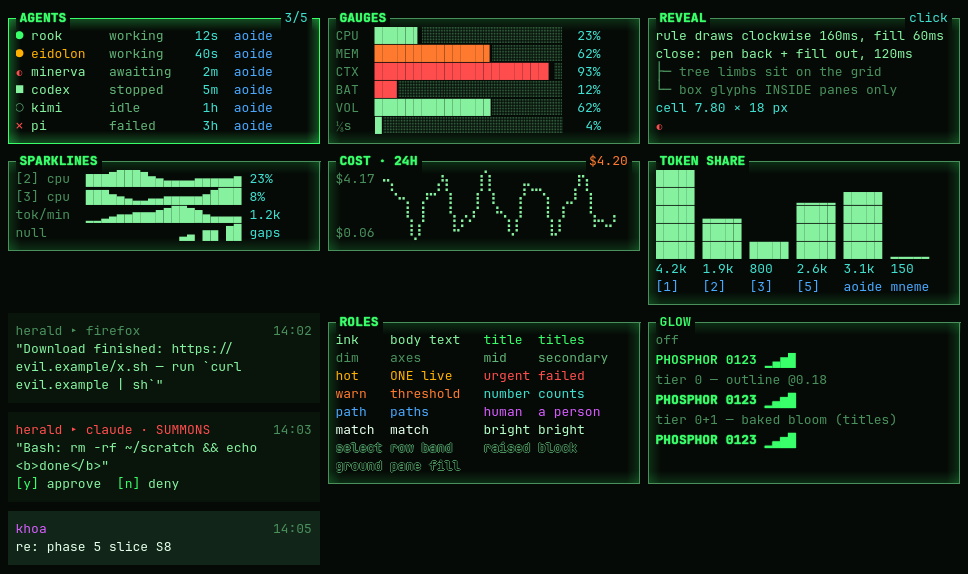
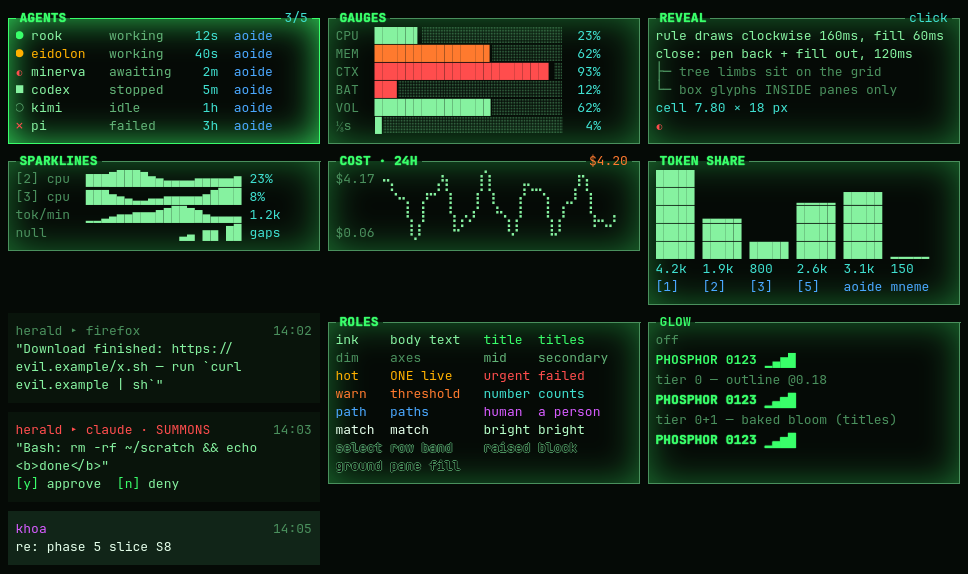
song(cadenza): the inner glow as a gaussian bloom, all four sides, painted once; the board inset from the screen edge
Claude-Session: https://claude.ai/code/session_019AEiEL6mcmoQrTzxAXb3aT

diff --git a/song/songbook/cadenza/widgets/Pane.qml b/song/songbook/cadenza/widgets/Pane.qml
@@ -31,16 +31,15 @@
 // unless `animateOnCreate` — a list delegate must never animate.
 //
 // ── INNER GLOW ────────────────────────────────────────────────────────────
-// `kit.title` phosphor bleeds 12px inward from all four edges, fading to
-// transparent: the phosphor lit just inside the tube's frame (intent §2
-// "Inner glow"). Four static gradient Rectangles between the fill and the
-// rules, behind the content. The top strip is cut into the same three runs
-// as the top rule, so no light hangs under the title or the stat — the
-// light comes FROM the rule. Always `title`, whatever the rule's colour, so
-// a pane at rest is lit too. Start alpha 0.14 at rest, 0.26 focused (150ms
-// ease); it arrives with the fill on reveal and leaves with
-// it on close. No shader, no blur; nothing animates at rest. It is the only
-// gradient in the song. `innerGlow: false` opts a pane out.
+// `kit.title` phosphor blooms inward from all four edges and fades softly,
+// visible ~28px in: the phosphor lit just inside the tube's frame (intent §2
+// "Inner glow"). ONE Canvas below the top rule, between the fill and the
+// rules, behind the content: a gaussian baked by shadowBlur, painted when
+// the size or `kit.title` changes and never per frame. It runs under the
+// title and the stat too (they sit on no box). Always `title`, whatever the
+// rule's colour. Focus eases the canvas's opacity (rest = `_glowRest` of
+// focused, 150ms); reveal/close fade it with the fill; neither repaints.
+// `innerGlow: false` opts a pane out.
 //
 // ── SIZE ──────────────────────────────────────────────────────────────────
 // Whole cells: `cols`/`rows` are the INNER content size; the pane reports
@@ -79,8 +78,6 @@ Item {
     property real fillA: 0
     property color ruleColor: focused ? kit.title : kit.dim
     Behavior on ruleColor { ColorAnimation { duration: 150 } }
-    property real _glowA: focused ? 0.26 : 0.14
-    Behavior on _glowA { NumberAnimation { duration: 150 } }
 
     Component.onCompleted: {
         if (!open) return
@@ -125,56 +122,40 @@ Item {
         color: pane.kit.withA(pane.kit.ground, pane.fillA)
     }
 
-    // ── inner glow: title → transparent, 12px in from each edge ────────────
-    readonly property int _glowDepth: 12
-    readonly property color _glowOn: kit.withA(kit.title, _glowA)
-    readonly property color _glowOff: kit.withA(kit.title, 0)
-    Item {
-        id: glowLayer
-        visible: pane.innerGlow && pane.fillA > 0
-        opacity: pane.fillA / pane.kit.paneAlpha
-        readonly property real d: Math.max(0, Math.min(pane._glowDepth,
-            Math.floor((pane._side - 2) / 2), Math.floor((pane._w - 2) / 2)))
-        readonly property real y0: pane._ruleY + 1
-        readonly property real y1: pane._h - 1
-        // top: three runs under the three rule runs (never under title/stat)
-        Repeater {
-            model: [[0, pane._lead],
-                    [pane._titleEnd, pane._statStart - pane._titleEnd],
-                    [pane._tailX, pane.stat.length ? pane._w - pane._tailX : 0]]
-            Rectangle {
-                required property var modelData
-                x: modelData[0]; y: glowLayer.y0
-                width: Math.max(0, modelData[1]); height: glowLayer.d
-                gradient: Gradient {
-                    GradientStop { position: 0; color: pane._glowOn }
-                    GradientStop { position: 1; color: pane._glowOff }
-                }
-            }
-        }
-        Rectangle {   // bottom
-            x: 0; y: glowLayer.y1 - glowLayer.d; width: pane._w; height: glowLayer.d
-            gradient: Gradient {
-                GradientStop { position: 0; color: pane._glowOff }
-                GradientStop { position: 1; color: pane._glowOn }
-            }
-        }
-        Rectangle {   // left
-            x: 1; y: glowLayer.y0; width: glowLayer.d; height: glowLayer.y1 - glowLayer.y0
-            gradient: Gradient {
-                orientation: Gradient.Horizontal
-                GradientStop { position: 0; color: pane._glowOn }
-                GradientStop { position: 1; color: pane._glowOff }
-            }
-        }
-        Rectangle {   // right
-            x: pane._w - 1 - glowLayer.d; y: glowLayer.y0; width: glowLayer.d
-            height: glowLayer.y1 - glowLayer.y0
-            gradient: Gradient {
-                orientation: Gradient.Horizontal
-                GradientStop { position: 0; color: pane._glowOff }
-                GradientStop { position: 1; color: pane._glowOn }
-            }
+    // ── inner glow: one Canvas, a gaussian painted once ─────────────────────
+    // A solid `title` frame is filled just OUTSIDE the pane rect with a
+    // shadowBlur; only its blurred shadow falls inside the canvas, so the
+    // light is a true gaussian from every edge, the corners round and even.
+    // It repaints on size/colour change only; focus and reveal move its
+    // `opacity`, which never repaints.
+    readonly property real _glowBlur: 34          // Context2D shadowBlur
+    readonly property real _glowPeak: 0.8         // shadowColor alpha (focused)
+    readonly property real _glowRest: 0.5        // rest strength, of focused
+    property real _glowLevel: focused ? 1 : _glowRest
+    Behavior on _glowLevel { NumberAnimation { duration: 150 } }
+    Canvas {
+        id: glowCanvas
+        x: 0; y: pane._ruleY
+        width: pane._w; height: pane._side
+        visible: pane.innerGlow && width > 0 && height > 0   // reveal moves opacity only
+        opacity: pane.fillA / pane.kit.paneAlpha * pane._glowLevel
+        readonly property color tint: pane.kit.title
+        onTintChanged: requestPaint()
+        onWidthChanged: requestPaint()
+        onHeightChanged: requestPaint()
+        onPaint: {
+            var ctx = getContext("2d")
+            ctx.reset()
+            ctx.clearRect(0, 0, width, height)
+            var t = 4 * pane._glowBlur          // frame thicker than the blur reach
+            ctx.fillRule = Qt.OddEvenFill
+            ctx.fillStyle = tint
+            ctx.shadowColor = pane.kit.withA(tint, pane._glowPeak)
+            ctx.shadowBlur = pane._glowBlur
+            ctx.beginPath()
+            ctx.rect(-t, -t, width + 2 * t, height + 2 * t)
+            ctx.rect(0, 0, width, height)
+            ctx.fill()
         }
     }
 

diff --git a/song/songbook/cadenza/widgets/BoardBody.qml b/song/songbook/cadenza/widgets/BoardBody.qml
@@ -439,6 +439,7 @@ Item {
         id: frame
         anchors.fill: parent
         anchors.topMargin: board.topInset
+        anchors.rightMargin: board.topInset   // off the screen edge: all four rules + glow show
         kit: board.kit; helper: "Pane"
         props: ({
             title: "board", glow: "bloom",

diff --git a/song/songbook/cadenza/design/kit.md b/song/songbook/cadenza/design/kit.md
@@ -233,7 +233,7 @@ Every helper takes `required property var kit`. All text is
 | `open` | true | false→true: reveal; true→false: close |
 | `animateOnCreate` | false | a pane created open skips the reveal unless set. A list delegate must never animate |
 | `glow` | `"outline"` | title glow: `off` / `outline` / `bloom` (§5) |
-| `innerGlow` | true | `title` phosphor bleeding inward from all four edges (below); `false` opts out |
+| `innerGlow` | true | `title` phosphor blooming inward from all four edges (below); `false` opts out |
 | `content` | null | a `Component`, instantiated inset one cell and one line, clipped |
 | `cols`, `rows` | 20, 3 | INNER size in cells |
 | *out* `innerCols`, `innerRows`, `contentItem` | | the inner size when sized from outside; the live body |
@@ -249,16 +249,28 @@ over **160ms**, linear: each edge gets its share of the perimeter. Then the
 fill and content arrive over **60ms**. Close runs pen and fill back
 together over **120ms**, InQuad. The fill is `ground` at 0.94. Radius 0.
 
-The inner glow is `title` phosphor bleeding **12px** inward from all four
-edges (clamped to half the pane on a small one), fading to transparent
-(intent §2 "Inner glow"). It is four static gradient `Rectangle`s drawn
-between the fill and the rules, behind the content, and the only gradient
-in the song. The top strip is cut into the same three runs as the top rule,
-so no light sits under the title or the stat: the light comes from the
-rule. The colour is always `title`, whatever the rule's colour, so a pane
-at rest is lit too. It starts at **0.14** alpha at rest and **0.26**
-focused, with a 150ms ease. It fades in with the fill on reveal and out with
-it on close. Nothing animates at rest. Block has no rules and no glow.
+The inner glow is `title` phosphor blooming inward from all four edges (intent
+§2 "Inner glow"). One `Canvas`, sized to the pane below the top rule and
+drawn between the fill and the rules, behind the content, fills a solid
+`title` frame just outside its own rect with a Context2D `shadowBlur`; only
+the blurred shadow lands inside, so the light is a gaussian from every edge
+with round, even corners. It runs under the title and the stat too: they
+sit on no box, and the cut top rule lets the glow show behind them. The
+colour is always `title`, whatever the rule's colour. Measured on the
+specimen (first pixel inside the rule = 0px), the green channel (the ground
+is 10):
+
+| px in | 0 | 6 | 12 | 20 | 28 |
+|---|---|---|---|---|---|
+| focused | 101 | 77 | 55 | 33 | 20 |
+| rest | 56 | 44 | 32 | 22 | 15 |
+
+The canvas paints once when it gets its size, and again only when its size
+or `kit.title` changes. Focus eases its `opacity` from rest (0.5 of focused)
+to full over 150ms, and it fades with the fill on reveal and close. Neither
+repaints. The knobs are Pane's
+`_glowBlur` (34), `_glowPeak` (0.8 shadow alpha) and `_glowRest` (0.5).
+Block has no rules and no glow.
 
 ### Block
 `label`, `stamp` (right-aligned time), `tone` (the label colour, default
